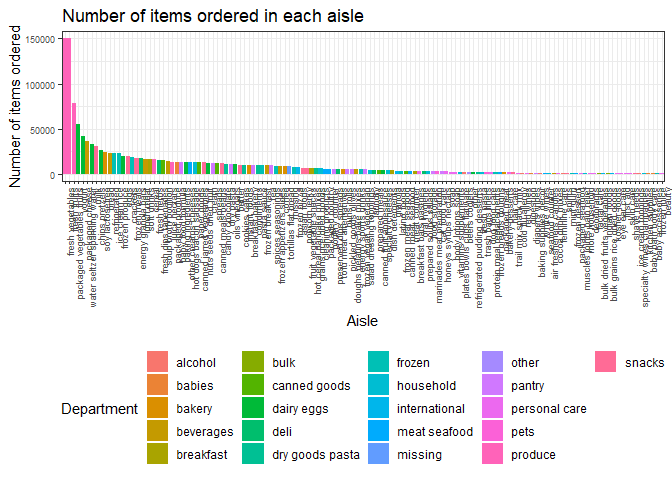
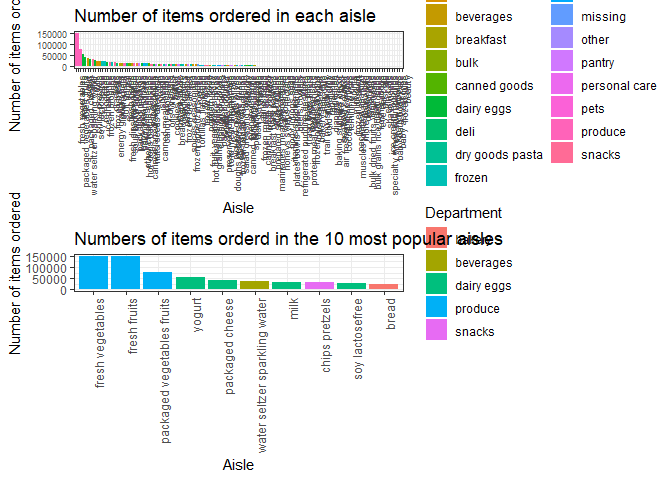
Improve plot for Q2 in problem 2.

diff --git a/p8105_hw3_jy2944.md b/p8105_hw3_jy2944.md
@@ -263,7 +263,7 @@ There are 134 distinct aisles. The above table shows the top 5 most popular aisl
 *2. Make a plot that shows the number of items ordered in each aisle. Order aisles sensibly, and organize your plot so others can read it.*
 
 ``` r
-instacart_data %>% 
+aisle_plot = instacart_data %>% 
   # group by department and aisle
   group_by(department, aisle) %>% 
   summarise(number = n()) %>% 
@@ -283,9 +283,37 @@ instacart_data %>%
     ) +
   theme(
     axis.text.x = element_text(angle = 90, hjust = 1),
-    axis.text = element_text(size = 6.5),
-    legend.position = "bottom"
+    axis.text = element_text(size = 7),
+    legend.position = "right"
     )
+
+insta_new = instacart_data %>% 
+  # group by department and aisle
+  group_by(department, aisle) %>% 
+  summarise(number = n()) %>% 
+  arrange(desc(number))
+
+top_10_aisle = insta_new[c(1:10), ] %>% 
+  # barplot
+  # reorder the aisle by number of items
+  ggplot(aes(x = reorder(aisle, -number), y = number, fill = department)) +
+  geom_bar(stat = "identity") +
+  labs(
+    title = "Numbers of items orderd in the 10 most popular aisles",
+    x = "Aisle",
+    y = "Number of items ordered",
+    fill = "Department"
+  ) +
+  viridis::scale_color_viridis(
+    discrete = TRUE,
+    name = "Aisle"
+    ) +
+  theme(
+    axis.text.x = element_text(angle = 90, hjust = 1),
+    legend.position = "right"
+    )
+
+aisle_plot / top_10_aisle
 ```
 
 ![](p8105_hw3_jy2944_files/figure-markdown_github/p2_2-1.png)
